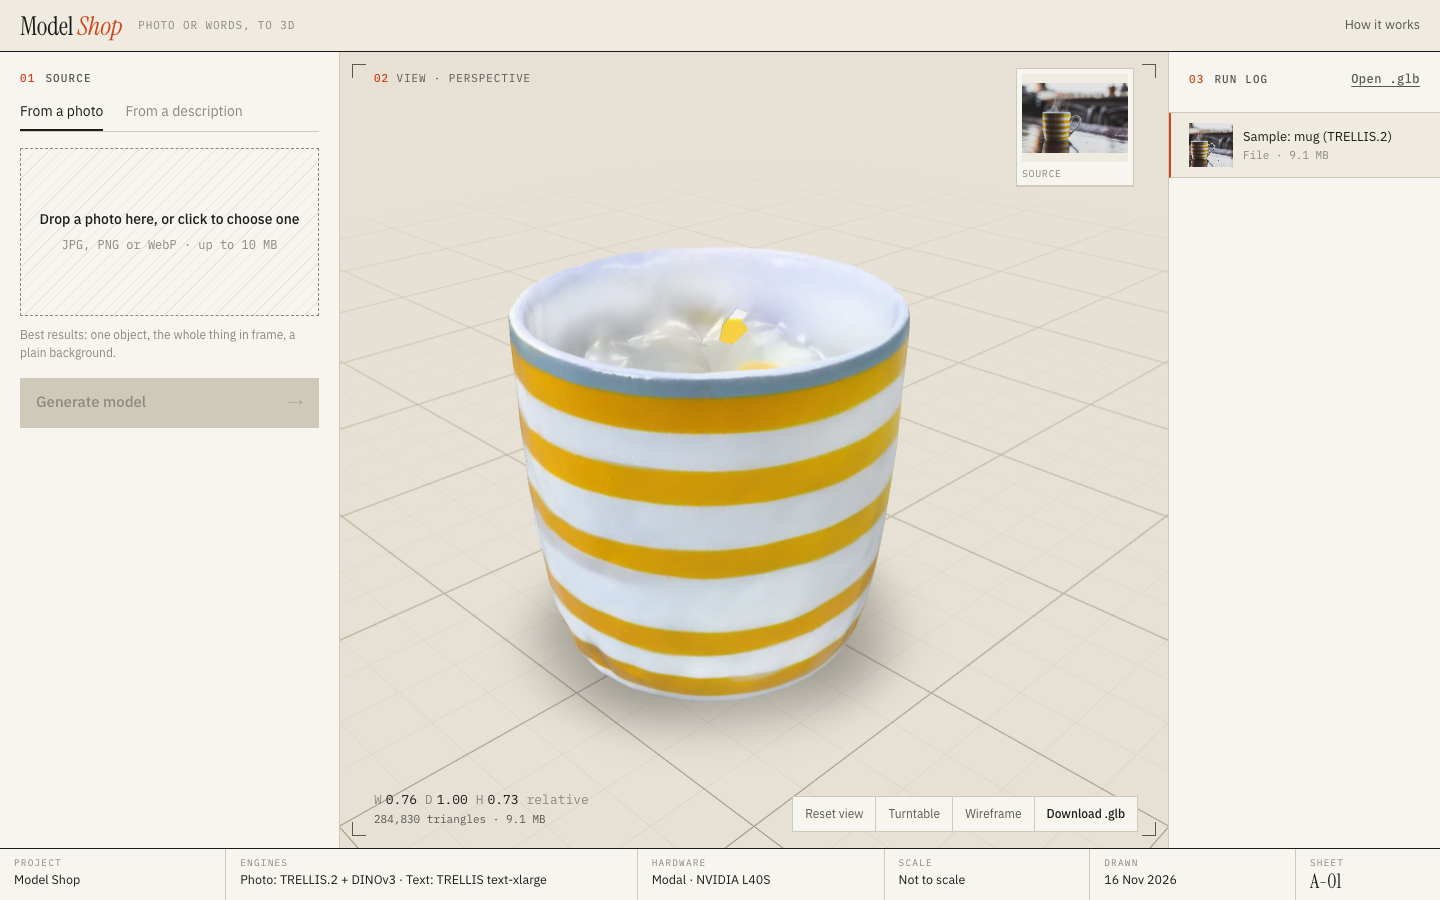
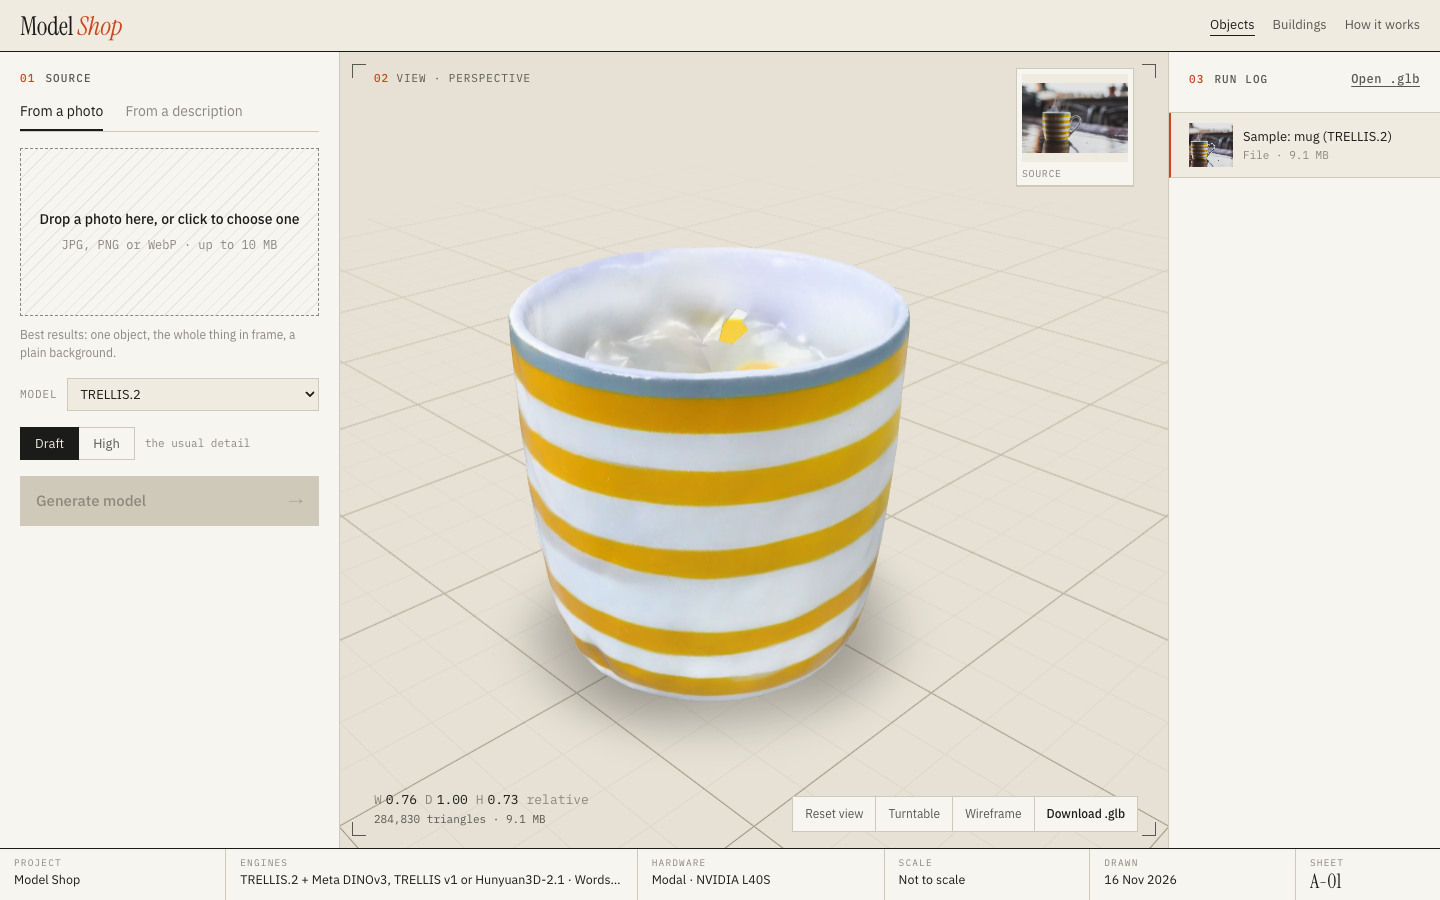
Credit Meta DINOv3 in the title block again; new README screenshot
The model picker change dropped DINOv3 from the Engines line, though TRELLIS.2 still reads every picture with it. The README screenshot showed the old single-page app; it now shows the Objects page with the page links, the model picker and the sample mug.

Changed region(s): [[0.0, 0.4044, 0.2188, 0.5911], [0.1562, 0.9644, 0.4062, 0.9956], [0.8438, 0.0, 0.875, 0.0311]]

diff --git a/app/page.tsx b/app/page.tsx
@@ -113,7 +113,7 @@ export default function Objects() {
 
         <dl className="titleblock">
           <div><dt>Project</dt><dd>Model Shop</dd></div>
-          <div><dt>Engines</dt><dd title="Photos: Microsoft TRELLIS.2 (default), TRELLIS v1 or Tencent Hunyuan3D-2.1, each on its own GPU. Descriptions: a FLUX picture first (on NVIDIA), then the chosen model.">TRELLIS.2, TRELLIS v1 or Hunyuan3D-2.1 · Words: FLUX picture first</dd></div>
+          <div><dt>Engines</dt><dd title="Photos: Microsoft TRELLIS.2 (default, reads the picture with Meta DINOv3), TRELLIS v1 or Tencent Hunyuan3D-2.1, each on its own GPU. Descriptions: a FLUX picture first (on NVIDIA), then the chosen model.">TRELLIS.2 + Meta DINOv3, TRELLIS v1 or Hunyuan3D-2.1 · Words: FLUX picture first</dd></div>
           <div><dt>Hardware</dt><dd>Modal · NVIDIA L40S</dd></div>
           <div><dt>Scale</dt><dd>Not to scale</dd></div>
           <div><dt>Drawn</dt><dd suppressHydrationWarning>{new Date().toLocaleDateString('en-GB', { day: 'numeric', month: 'short', year: 'numeric' })}</dd></div>

diff --git a/README.md b/README.md
@@ -4,7 +4,7 @@ Turn a photo or a short description into a 3D model you can turn, inspect and do
 Model Shop runs Microsoft's TRELLIS.2 on your own rented GPU (it reads the photo with Meta's DINOv3).
 A description first becomes a picture (FLUX, hosted by NVIDIA), which you check before the GPU starts.
 
-![Model Shop: a photo on the left, the 3D model on a drafting grid in the middle, the run log on the right](docs/model-shop.png)
+![Model Shop's Objects page: the source panel with the model picker on the left, a TRELLIS.2 mug made from its photo on a drafting grid in the middle, the run log on the right](docs/model-shop.png)
 
 ## What it does
 
